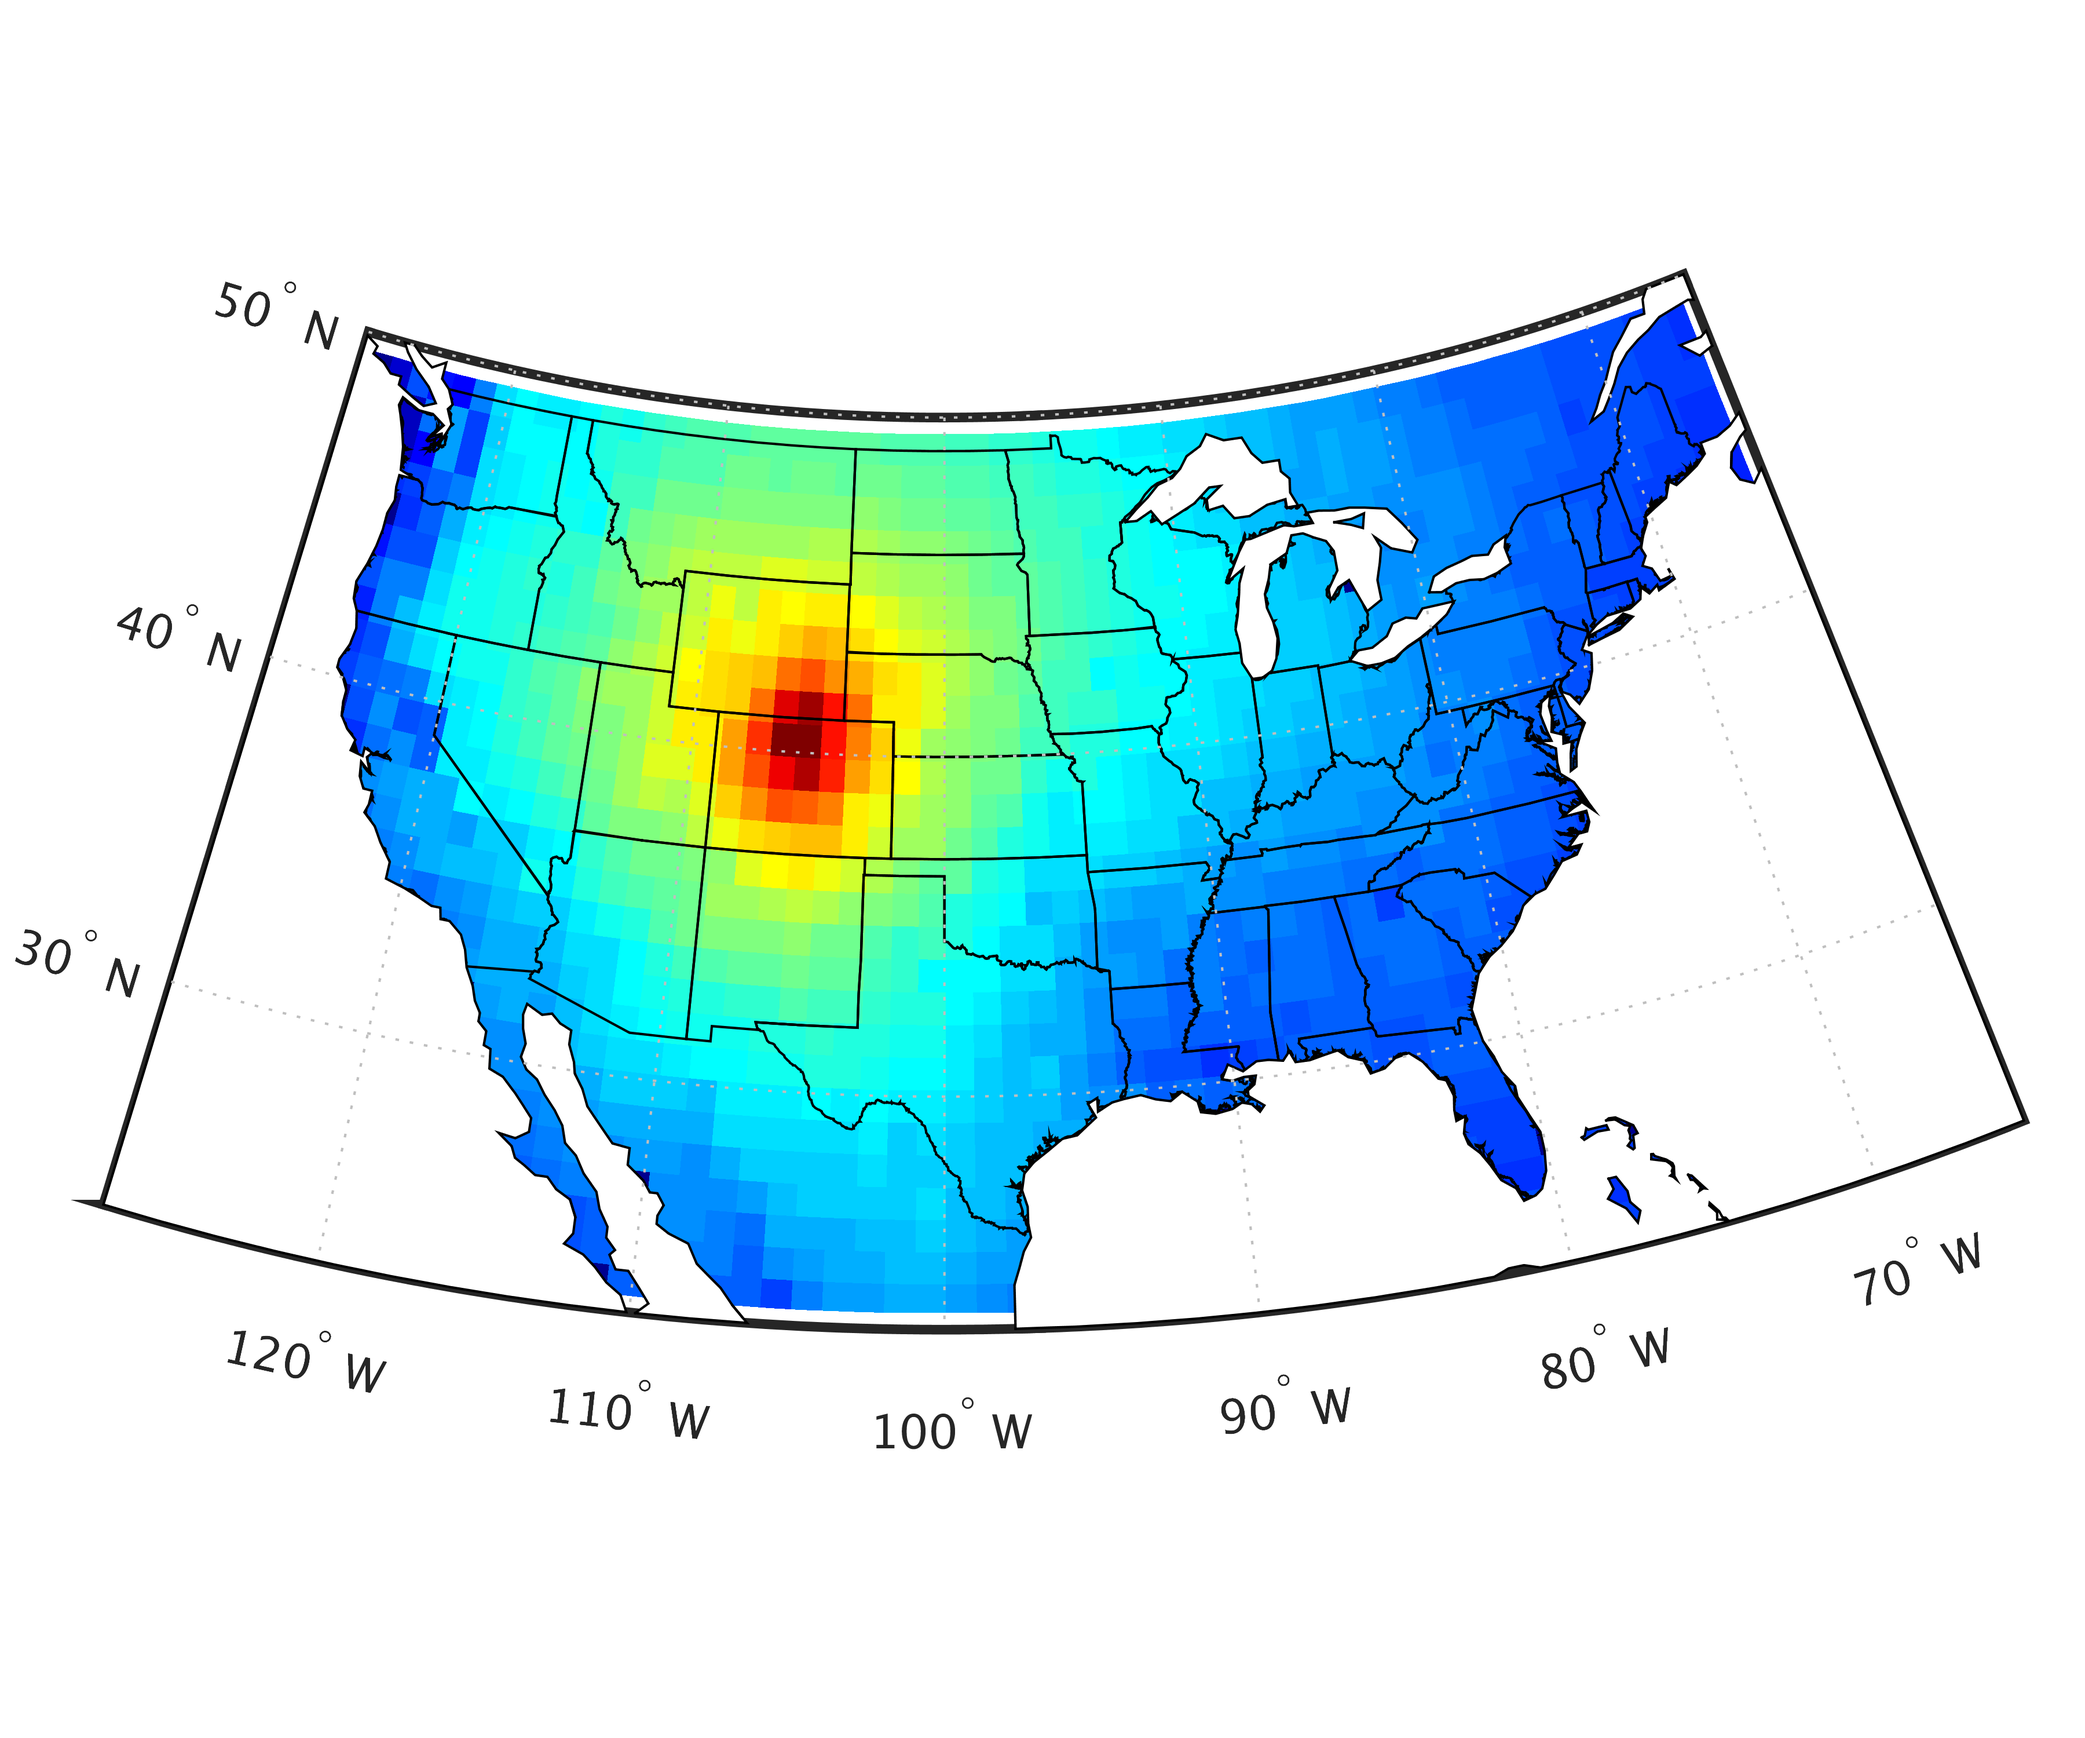
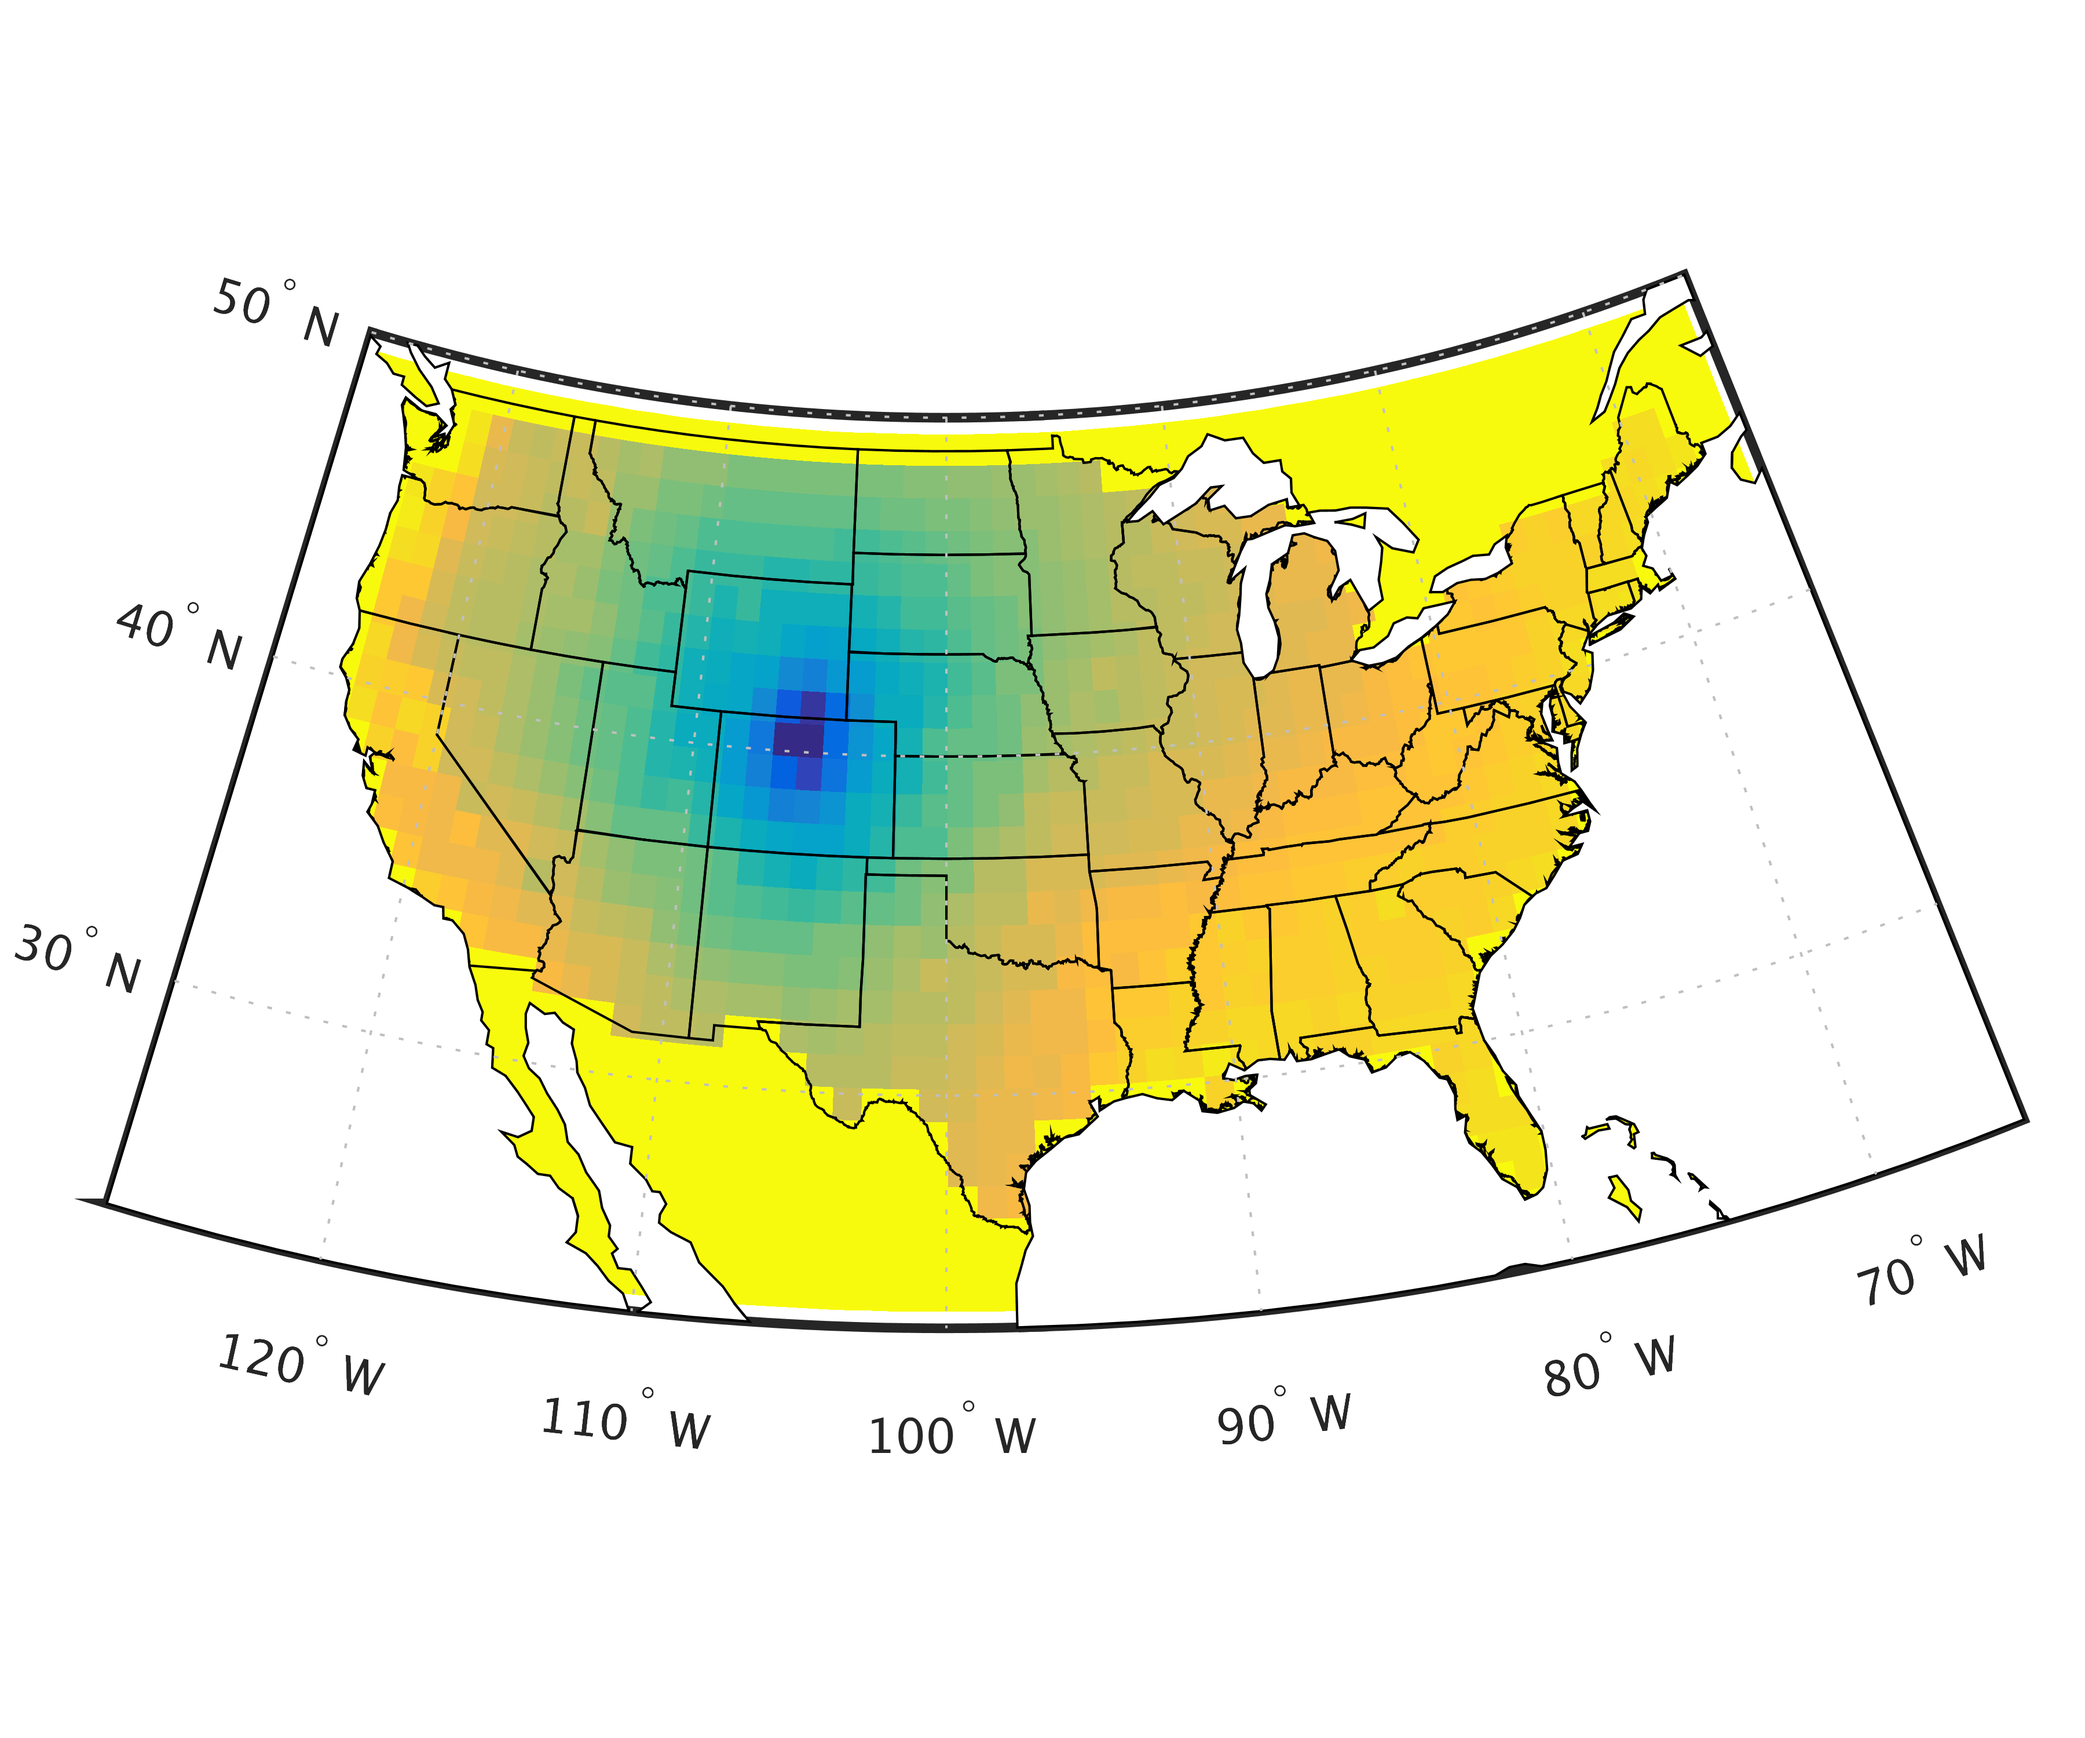
fix plotting

diff --git a/do_clust.m b/do_clust.m
@@ -178,8 +178,13 @@ uselats=[minlat:maxlat];
 uselons=[minlon:maxlon];
 %aa and bb are the indices of points in the US domain
 [aa bb]=ndgrid(uselons,uselats);
+
+load conus
+usmask=NaN(size(aa));
+usmask(find(inpolygon(lats(bb(:)),lon(aa(:)),uslat,uslon)))=1;
+
 %make vector (isgd) of all non-nan points in the US domain
- isgd=find(~isnan(pmat(uselons,uselats,1)));
+ isgd=find(~isnan(pmat(uselons,uselats,1)+usmask));
 
 clear tmp tmpd
 
@@ -224,7 +229,7 @@ gdmap=NaN(size(pmat(uselons,uselats,1)));
 gdmap(isgd)=1:numel(isgd);
 bgood=gdmap(blon,blat);
 dmap=reshape(log(1./tmpmap(isgd(bgood),:)),size(aa));
-plotmap(lats,lon,aa,bb,dmap,'ptest.png',2)
+plotmap(lats,lon,aa,bb,dmap,'ptest.png',2,flipud(parula))
 
 
 %%Create time evolving cluster distributions
@@ -267,37 +272,10 @@ disp(datevec(squeeze(day_in(end,blon,blat))));
 %and its amplitude in mm
 disp(squeeze(max_in(end,blon,blat)));
 
-a=tdfread('cities_NA.txt');
 
 clats=lats(uselats);
 clons=lon(uselons);
 
-%Create yearly maximum distribution for each cluster (Cell array);
-for i=1:numel(cred)
-indist{i}=max_in(:,isgd(inclust{i}));
-M=indist{i};
-[C,I] = max(M(:));
-[I1,I2] = ind2sub(size(M),I);
-M(I1,I2);
-
-dttmp=day_in(:,isgd(inclust{i}));
-dt_clust(i)=dttmp(I);
-
-[llo(i),lla(i)]=ind2sub(size(aa),isgd(inclust{i}(I2)));
-lly(i)=I1;
-lat_cl(i)=clats(lla(i));
-lon_cl(i)=clons(llo(i));
-
-dd=distance(lat_cl(i),lon_cl(i),a.lat,a.lon);
- [duf ddmin]=min(dd);
- citynm{i}=[strtrim(a.name1(ddmin,:)) ', ' strtrim(a.g(ddmin,:)), ...
-            ', ' strtrim(a.e(ddmin,:))];
-c_lvl_in(i)=C*0.0393701;
-c_lvl(i)=C;
- [parmhat(i,:),parmci] = gevfit(M(:));
- c_prctl(i) = gevcdf(c_lvl(i),parmhat(i,1),parmhat(i,2),parmhat(i,3));
-end
-plotmap(lats,lon,aa,bb,cmap,'pmaps.png',1,flipud(parula),lon_cl,lat_cl)
 
 %save output
 save('data_out.mat','max_in','day_in','cmap','clats','clons','isgd','inclust','c_new','cred','numelc','lats','lon','aa','bb')

diff --git a/event_detection.m b/event_detection.m
@@ -1,0 +1,31 @@
+load('data_out.mat')
+a=tdfread('cities_NA.txt');
+
+
+%Create yearly maximum distribution for each cluster (Cell array);
+for i=1:numel(cred)
+indist{i}=max_in(:,isgd(inclust{i}));
+M=indist{i};
+[C,I] = max(M(:));
+[I1,I2] = ind2sub(size(M),I);
+M(I1,I2);
+
+dttmp=day_in(:,isgd(inclust{i}));
+dt_clust(i)=dttmp(I);
+
+[llo(i),lla(i)]=ind2sub(size(aa),isgd(inclust{i}(I2)));
+lly(i)=I1;
+lat_cl(i)=clats(lla(i));
+lon_cl(i)=clons(llo(i));
+
+dd=distance(lat_cl(i),lon_cl(i),a.lat,a.lon);
+ [duf ddmin]=min(dd);
+ citynm{i}=[strtrim(a.name1(ddmin,:)) ', ' strtrim(a.g(ddmin,:)), ...
+            ', ' strtrim(a.e(ddmin,:))];
+c_lvl_in(i)=C*0.0393701;
+c_lvl(i)=C;
+ [parmhat(i,:),parmci] = gevfit(M(:));
+ c_prctl(i) = gevcdf(c_lvl(i),parmhat(i,1),parmhat(i,2),parmhat(i,3));
+end
+plotmap(lats,lon,aa,bb,cmap,'pmaps.png',1,flipud(parula),lon_cl,lat_cl)
+

diff --git a/plotmap.m b/plotmap.m
@@ -1,6 +1,6 @@
-function plotmap(lats,lon,aa,bb,cmap,filename,n,colmap,lon_cl,lat_cl)
+function plotmap(lats,lon,aa,bb,cmap,filename,n,colmap,lon_cl,lat_cl,dt_clust,citynm)
 
-figure(n)
+fig = figure(n)
 clf
 ax = usamap('conus');
 states = shaperead('usastatelo', 'UseGeoCoords', true,...
@@ -18,6 +18,10 @@ geoshow(flipud(lat),flipud(long),'DisplayType','polygon','FaceColor','white');
 colormap(colmap);
 if nargin>8
 plotm(lat_cl,lon_cl,'ko','markerfacecolor','w')
+for i=1:numel(lat_cl)
+tt=textm(lat_cl(i),lon_cl(i),{citynm{i},datestr(dt_clust(i))});
+set(tt,'fontsize',5)
+end
 end
 set(gcf, 'PaperPosition', [0 0 6 5]);
 set(gcf, 'PaperSize', [6 5]);
